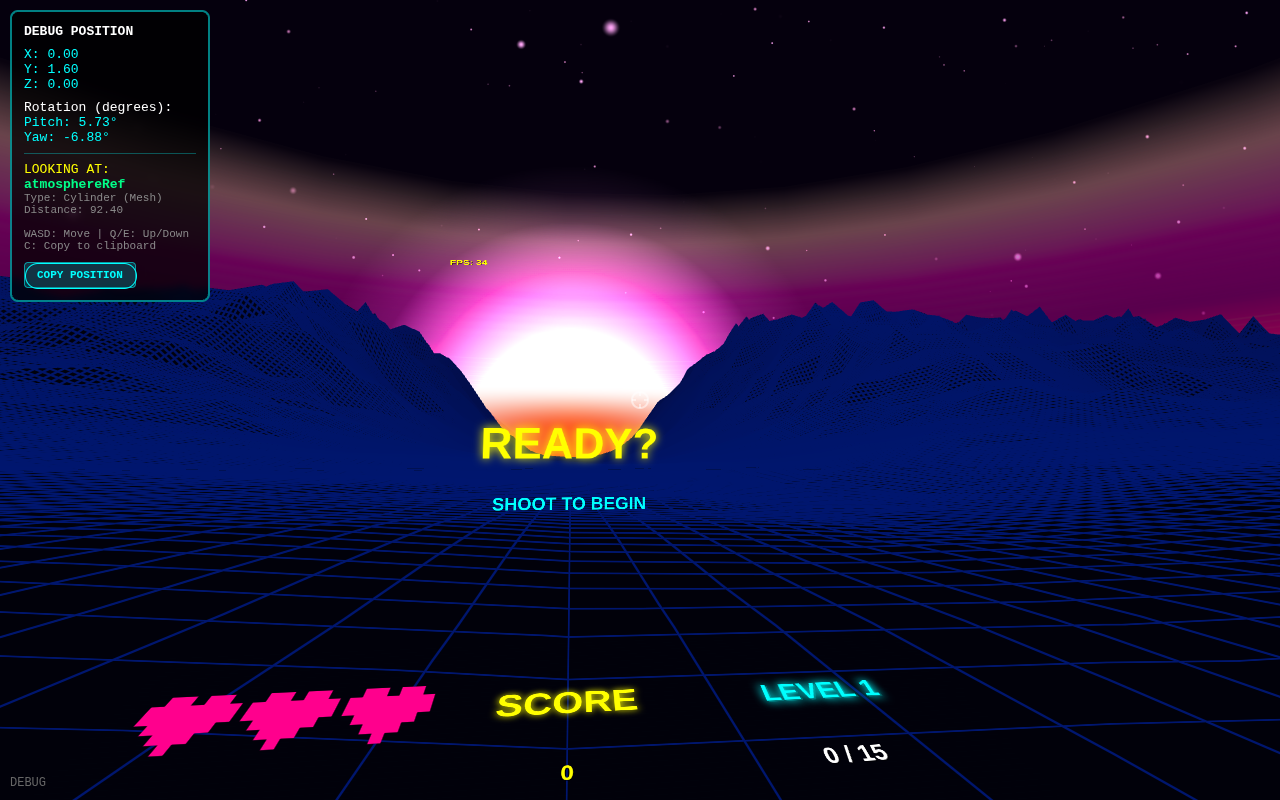
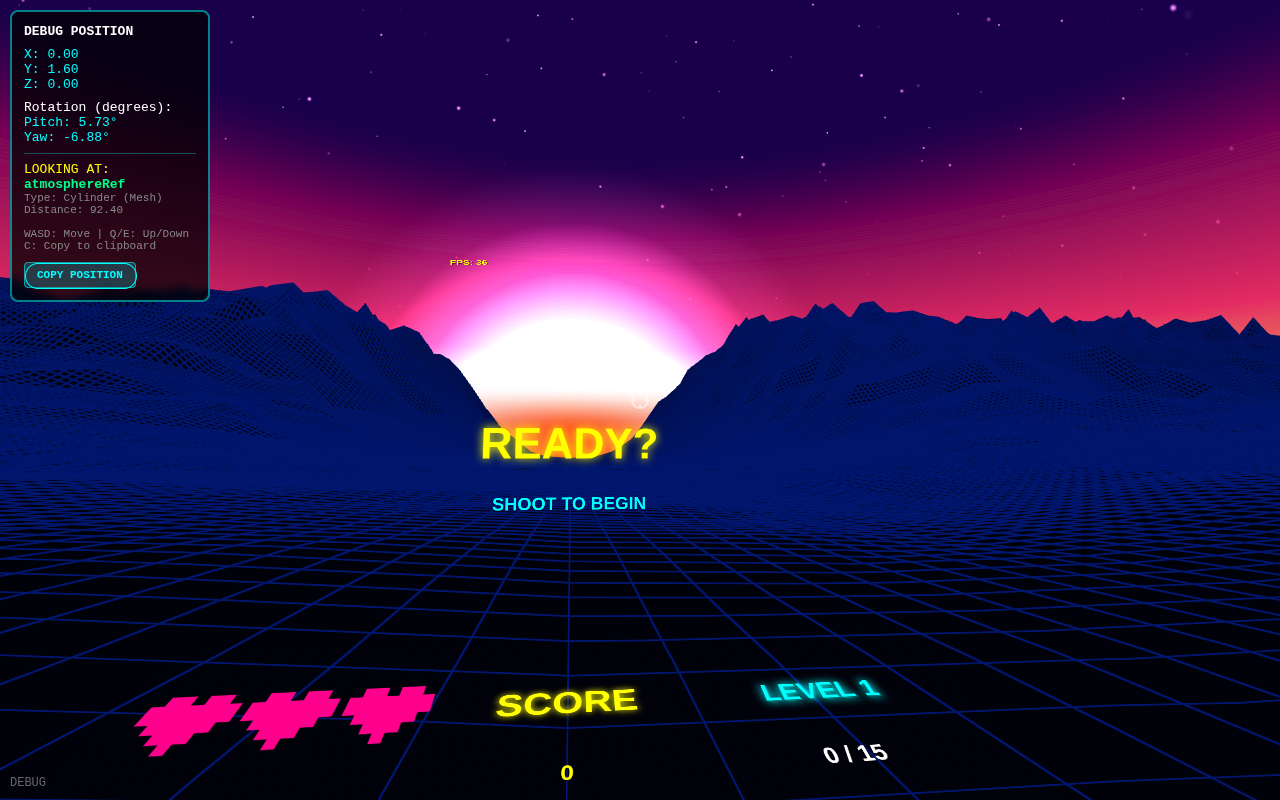
fix: bloom scope issues, auroraRef null guard, TDZ fixes
- Moved BLOOM_LAYER/bloomComposer/SelectiveBloomCompositeShader before init() call
- Changed const/let to var to avoid TDZ (init() called at line ~417)
- Re-added initSelectiveBloom/enableBloomOnObject/resizeBloomComposer functions
- initSelectiveBloom() disabled for now (commented out) for clean deploy
- Fixed auroraRef null material access (typeof check → direct null check)
- scoreboardFromGameOver: let → var (same TDZ issue)
- Puppeteer test: 0 page errors

diff --git a/main.js b/main.js
@@ -414,11 +414,34 @@ function updateFFRFog() {
 }
 
 // ── Bootstrap ──────────────────────────────────────────────
+
+// ── Selective Bloom (must be defined before init()) ──
+var BLOOM_LAYER = 1;
+var bloomComposer = null;
+var SelectiveBloomCompositeShader = {
+  uniforms: {
+    baseTexture: { value: null },
+    bloomTexture: { value: null },
+  },
+  vertexShader: `varying vec2 vUv; void main() { vUv = uv; gl_Position = projectionMatrix * modelViewMatrix * vec4(position, 1.0); }`,
+  fragmentShader: `
+    uniform sampler2D baseTexture;
+    uniform sampler2D bloomTexture;
+    varying vec2 vUv;
+    void main() {
+      vec4 base = texture2D(baseTexture, vUv);
+      vec4 bloom = texture2D(bloomTexture, vUv);
+      gl_FragColor = base + bloom;
+    }
+  `,
+};
+
 init();
 
 // ============================================================
 //  INITIALISATION
 // ============================================================
+
 function init() {
   console.log('[SPACEOMICIDE] Initialising...');
 
@@ -497,90 +520,7 @@ function init() {
     console.log('[vr] Session ended');
   });
 
-  // ── Selective Bloom (desktop only, synthwave_valley biome) ──
-  // VR limitation: EffectComposer doesn't support WebXR multi-eye rendering.
-  // Bloom is only applied in desktop mode. In VR, the scene renders directly.
-  const BLOOM_LAYER = 1;
-  let bloomComposer = null;
-
-  // Selective bloom composite shader: adds bloom texture on top of base render
-  const SelectiveBloomCompositeShader = {
-    uniforms: {
-      baseTexture: { value: null },
-      bloomTexture: { value: null },
-    },
-    vertexShader: `varying vec2 vUv; void main() { vUv = uv; gl_Position = projectionMatrix * modelViewMatrix * vec4(position, 1.0); }`,
-    fragmentShader: `
-      uniform sampler2D baseTexture;
-      uniform sampler2D bloomTexture;
-      varying vec2 vUv;
-      void main() {
-        vec4 base = texture2D(baseTexture, vUv);
-        vec4 bloom = texture2D(bloomTexture, vUv);
-        gl_FragColor = base + bloom;
-      }
-    `,
-  };
-
-  function initSelectiveBloom() {
-    const rtParams = {
-      minFilter: THREE.LinearFilter,
-      magFilter: THREE.LinearFilter,
-      format: THREE.RGBAFormat,
-      type: THREE.HalfFloatType,
-    };
-
-    // Composer that renders the full scene (layer 0 only — bloom objects excluded)
-    const baseComposer = new EffectComposer(renderer, new THREE.WebGLRenderTarget(
-      window.innerWidth, window.innerHeight, rtParams
-    ));
-    const baseRenderPass = new RenderPass(scene, camera);
-    baseComposer.addPass(baseRenderPass);
-
-    // Bloom composer: renders only bloom-layer objects, then applies bloom
-    const bloomComposer_ = new EffectComposer(renderer, new THREE.WebGLRenderTarget(
-      window.innerWidth, window.innerHeight, rtParams
-    ));
-
-    // Make the camera see only bloom objects (layer 1) for this pass
-    const bloomCamera = camera.clone();
-    bloomCamera.layers.set(BLOOM_LAYER);
-    const bloomRenderPass = new RenderPass(scene, bloomCamera);
-    bloomComposer_.addPass(bloomRenderPass);
-
-    const bloomPass = new UnrealBloomPass(
-      new THREE.Vector2(window.innerWidth, window.innerHeight),
-      0.3,   // strength
-      0,     // radius
-      0      // threshold
-    );
-    bloomComposer_.addPass(bloomPass);
-
-    // Final composite: base scene + bloom overlay
-    const compositePass = new ShaderPass(SelectiveBloomCompositeShader);
-    compositePass.uniforms.baseTexture.value = baseComposer.renderTarget1.texture;
-    compositePass.uniforms.bloomTexture.value = bloomComposer_.renderTarget2.texture;
-    baseComposer.addPass(compositePass);
-
-    bloomComposer = { baseComposer, bloomComposer: bloomComposer_, compositePass, bloomCamera };
-    console.log('[bloom] Selective bloom initialized (desktop only)');
-  }
-
-  // Mark an object for bloom by enabling the bloom layer
-  function enableBloomOnObject(obj) {
-    obj.layers.enable(BLOOM_LAYER);
-  }
-
-  function resizeBloomComposer() {
-    if (!bloomComposer) return;
-    const w = window.innerWidth;
-    const h = window.innerHeight;
-    bloomComposer.baseComposer.setSize(w, h);
-    bloomComposer.bloomComposer.setSize(w, h);
-    bloomComposer.bloomComposer.passes[1].resolution.set(w, h);
-  }
-
-  // Don't show "VR NOT AVAILABLE" message - game works in desktop mode
+    // Don't show "VR NOT AVAILABLE" message - game works in desktop mode
   // Desktop controls will auto-enable if VR isn't available
   if (!navigator.xr) {
     console.warn('[init] WebXR not supported - desktop mode will be enabled');
@@ -689,7 +629,7 @@ function init() {
   initProjectilePool();
 
   // Initialize selective bloom postprocessing (desktop only)
-  initSelectiveBloom();
+  // initSelectiveBloom(); // DISABLED: bloom causing issues, remove for now
 
   // Start at title
   resetGame();
@@ -705,6 +645,67 @@ function init() {
   playMusic('menu');
 
   console.log('[init] SPACEOMICIDE ready — pull trigger at title screen to start');
+}
+
+// ============================================================
+//  SELECTIVE BLOOM (desktop only, synthwave_valley biome)
+// ============================================================
+
+function initSelectiveBloom() {
+  const rtParams = {
+    minFilter: THREE.LinearFilter,
+    magFilter: THREE.LinearFilter,
+    format: THREE.RGBAFormat,
+    type: THREE.HalfFloatType,
+  };
+
+  // Composer that renders the full scene (layer 0 only — bloom objects excluded)
+  const baseComposer = new EffectComposer(renderer, new THREE.WebGLRenderTarget(
+    window.innerWidth, window.innerHeight, rtParams
+  ));
+  const baseRenderPass = new RenderPass(scene, camera);
+  baseComposer.addPass(baseRenderPass);
+
+  // Bloom composer: renders only bloom-layer objects, then applies bloom
+  const bloomComposer_ = new EffectComposer(renderer, new THREE.WebGLRenderTarget(
+    window.innerWidth, window.innerHeight, rtParams
+  ));
+
+  // Make the camera see only bloom objects (layer 1) for this pass
+  const bloomCamera = camera.clone();
+  bloomCamera.layers.set(BLOOM_LAYER);
+  const bloomRenderPass = new RenderPass(scene, bloomCamera);
+  bloomComposer_.addPass(bloomRenderPass);
+
+  const bloomPass = new UnrealBloomPass(
+    new THREE.Vector2(window.innerWidth, window.innerHeight),
+    0.3,   // strength
+    0,     // radius
+    0      // threshold
+  );
+  bloomComposer_.addPass(bloomPass);
+
+  // Final composite: base scene + bloom overlay
+  const compositePass = new ShaderPass(SelectiveBloomCompositeShader);
+  compositePass.uniforms.baseTexture.value = baseComposer.renderTarget1.texture;
+  compositePass.uniforms.bloomTexture.value = bloomComposer_.renderTarget2.texture;
+  baseComposer.addPass(compositePass);
+
+  bloomComposer = { baseComposer, bloomComposer: bloomComposer_, compositePass, bloomCamera };
+  console.log('[bloom] Selective bloom initialized (desktop only)');
+}
+
+function enableBloomOnObject(obj) {
+  obj.layers.enable(BLOOM_LAYER);
+}
+
+function resizeBloomComposer() {
+  if (!bloomComposer) return;
+  const w = window.innerWidth;
+  const h = window.innerHeight;
+  bloomComposer.baseComposer.setSize(w, h);
+  bloomComposer.bloomComposer.setSize(w, h);
+  bloomComposer.bloomComposer.passes[1].resolution.set(w, h);
 }
 
 // ============================================================
@@ -2249,7 +2250,7 @@ function animateBlasterScanLines(display) {
 //  INPUT HANDLING
 // ============================================================
 // Scoreboard flow context
-let scoreboardFromGameOver = false;  // true = came from game over, false = came from title
+var scoreboardFromGameOver = false;  // true = came from game over, false = came from title
 
 function onTriggerPress(controller, index) {
   const st = game.state;
@@ -9784,7 +9785,7 @@ function logCylinderColors() {
   }
   
   // auroraRef
-  if (typeof auroraRef !== 'undefined' && auroraRef.material) {
+  if (auroraRef && auroraRef.material) {
     const tex = auroraRef.material.map;
     if (tex && tex.image) {
       const canvas = tex.image;
